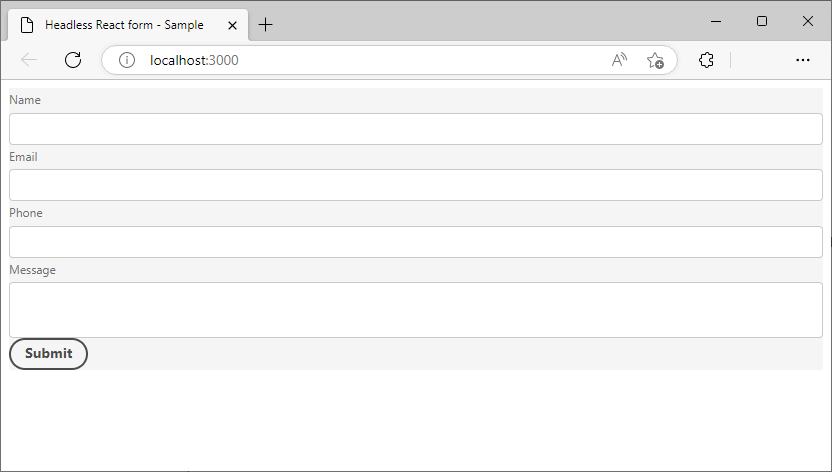
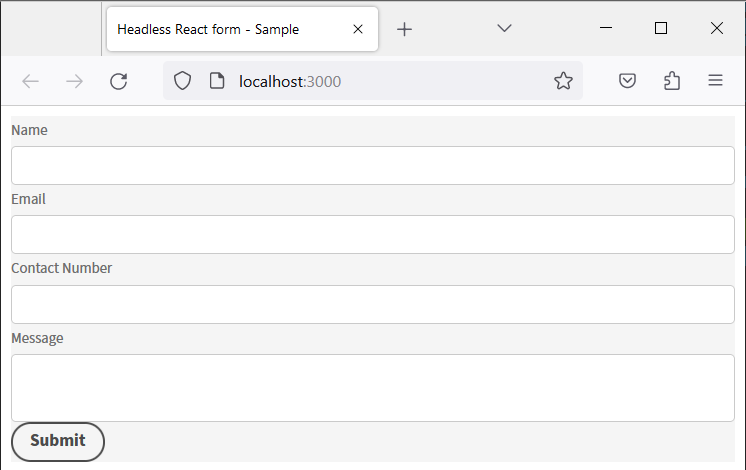
Updated Getting Started With Starter Kit (#82)

diff --git a/help/create-and-publish-a-headless-form.md b/help/create-and-publish-a-headless-form.md
@@ -1,6 +1,6 @@
 ---
 title: Create and Publish a Headless Form with Adobe Experience Manager Adaptive Forms | Step-by-Step Guide
-description: Learn how to create and publish a headless form using Adobe Experience Manager's adaptive forms in this step-by-step guide. Discover the benefits of going headless and streamline your form creation process today. Start building dynamic, responsive forms that work seamlessly across devices with Adobe Experience Manager Headless Adaptive Forms
+description: Learn how to create and publish a headless form using Adobe Experience Manager's adaptive forms in this step-by-step guide. Discover the benefits of going headless and streamline your form creation process today. Start building dynamic, responsive forms that work seamlessly across devices with Adobe Experience Manager Headless Adaptive Forms.
 hide: no
 exl-id: cd7c7972-376c-489f-a684-f479d92c37e7
 ---
@@ -80,7 +80,6 @@ The starter kit is a React app with a sample Headless adaptive form and correspo
     ![](/help/assets/install-react-app-starter-kit.png)
 
 
-
 ## 2. Preview the Headless adaptive form {#preview}
 
 After setting up the starter kit, you can preview the sample Headless adaptive form, replace it with your own custom form. You can also configure the starter kit to retrieve a form from an AEM Forms Server. To preview the form
@@ -112,9 +111,9 @@ After setting up the starter kit, you can preview the sample Headless adaptive f
 
 ## 3. Create and render your own Headless adaptive form{#custom}
 
-A Headless adaptive form represents the form and its components, such as fields and buttons, in JSON (JavaScript Object Notation) format. The advantage of using JSON format is that it can be easily parsed and used by various programming languages, making it a convenient way to exchange form data between systems. 
+A Headless adaptive form represents the form and its components, such as fields and buttons, in JSON (JavaScript Object Notation) format. The advantage of using JSON format is that it can be easily parsed and used by various programming languages, making it a convenient way to exchange form data between systems. To view the sample Headless adaptive form included with the app, open the `/react-starter-kit-aem-headless-forms/form-definations/form-model.json` file. 
 
-Let's create a contact us form that four fields: "Name", "Email", "Phone No", and "Message". The fields are defined as objects (items) within the JSON, with each object (item) having properties such as type, label, name, and required. The form also has a button with of type "submit". Here is JSON for the form. 
+Let's create a contact us form with four fields: "Name", "Email", "Contact Number", and "Message". The fields are defined as objects (items) within the JSON, with each object (item) having properties such as type, label, name, and required. The form also has a button of type "submit". Here is JSON for the form. 
 
 
 ```JSON
@@ -142,7 +141,7 @@ Let's create a contact us form that four fields: "Name", "Email", "Phone No", an
         "format": "phone",
         "pattern": "[0-9]{10}",
         "label": {
-          "value": "Phone"
+          "value": "Contact Number"
         },
         "name": "Phone"
       },
@@ -165,8 +164,8 @@ Let's create a contact us form that four fields: "Name", "Email", "Phone No", an
       }
     ],
     "action": "https://eozrmb1rwsmofct.m.pipedream.net",
-    "description": "Sample form",
-    "title": "Sample Form",
+    "description": "Contact Us",
+    "title": "Contact Us",
     "metadata": {
       "grammar": "json-formula-1.0.0",
       "version": "1.0.0"
@@ -179,7 +178,8 @@ Let's create a contact us form that four fields: "Name", "Email", "Phone No", an
 >[!NOTE]
 >
 > * The "afModelDefinition" attribute is only needed for React applications and is not a part of the form definition.
-> * This article focuses on hand-crafted JSON definition. You can also use the [adaptive forms editor to create a core components based adaptive form](create-a-headless-adaptive-form.md) and use it to render a headless adaptive form. 
+> * You can hand-craft the form JSON or use the [AEM adaptive forms editor (adaptive forms WYSIWYG editor)](create-a-headless-adaptive-form.md) to create and deliver the form JSON. In a production environment, you use AEM Forms to deliver the form JSON, more on it later.
+> * The tutorial uses the https://pipedream.com/ to test form submissions. You use your own or third-party endpoints approved by your organization to recieve the data from a Headless Adaptive Form.   
 
 
 To render the form, replace the sample Headless adaptive form JSON `/react-starter-kit-aem-headless-forms/form-definations/form-model.json` with the above JSON, save the file, wait for the starter-kit to compile and refresh the form.    
@@ -188,9 +188,22 @@ To render the form, replace the sample Headless adaptive form JSON `/react-start
 
 <!-- Your form is ready. Let's add some validations and make "Name", "Email", and "Message" fields mandatory. -->
 
+You have sucessfully rendered the Headless Adaptive Form. 
+
+
+## Bonus
+
+Let's set the title of the webpage hosting the form to `Contact Us | WKND Adventures and Travel`. To change the title, open the _react-starter-kit-aem-headless-forms/public/index.html_ file for editing and set the title.  
+
+![](assets/contact-us-headless-adaptive-forms-updated-title.png)
+
  
 ## Next step
 
-You have successfully created the Headless Adaptive Form. By default, the starter kit uses [Adobe's Spectrum](https://spectrum.adobe.com/) components. The next step is to [use a custom react library to render a headless form](use-google-material-ui-react-components-to-render-a-headless-form.md)
+By default, the starter kit uses [Adobe's Spectrum](https://spectrum.adobe.com/) components to render the form. You can use create and use your own components or third-party components. For example, using Google Material UI or Chakra UI.
+
+Let's [use Google Material UI](use-google-material-ui-react-components-to-render-a-headless-form.md) to render our Contact Us form.
+
+
 
     

diff --git a/help/architecture.md b/help/architecture.md
@@ -14,11 +14,7 @@ A Headless adaptive form is essentially a JSON structure (schema) consisting for
 
 ## Architecture {#architecture}
 
-A typical Headless adaptive forms architecture constitutes the following:
-
-* An Adobe Experience Manager Forms Server.
-* Headless adaptive forms hosted on Adobe Experience Manager Forms Server.
-* Your frontend apps (Website, mobile application, JavaScript apps, chat applications, and more) for channel-specific form renditions.
+A typical Headless adaptive forms architecture constitutes an Adobe Experience Manager Forms Server, Headless adaptive forms hosted on Adobe Experience Manager Forms Server, and your frontend apps (Website, mobile application, JavaScript apps, chat applications, and more) for channel-specific form renditions.
 
 Typical architecture of a Headless adaptive forms deployment looks like the following:
 
@@ -37,7 +33,7 @@ A typical Headless adaptive forms architecture constitutes an Adobe Experience M
 **Adobe Experience Manager Server**: Along with serving as host for Headless adaptive forms, Adobe Experience Manager provides the following backend capabilities:  
 
 * RESTful APIs to list, fetch, pre-fill, validate, submit, track submission status of headless forms.
-* Visual editor to easily develop Headless adaptive forms.
+* Visual editor to easily develop a Headless adaptive form.
 * Forms Data Model to receive or send data to disparate data sources.
 * Workflow engine to automate complex tasks.
 
@@ -58,7 +54,7 @@ The following tools help you create and integrate Headless adaptive forms to you
 **Forms Web SDK (Client-Side Runtime)**: Forms Web SDK is a client-side JavaScript library. It allows you to apply client-side validations on form fields, maintain state of the form, and provides hooks to connect form with UI layer or adaptive forms rendered component. It allows customers to validate constrains applied to various fields of a form and hooks to connect JSON structure of form to the UI framework. The Forms Web SDK has the following components:
 
 * **Business rule processor**: The business rule processor accepts the forms JSON structure as input, manages the state of the form fields, executes rules, and event handlers present in the JSON.
-* **React binder**: Provides hooks over controller so you can add state to Form Components. It is also helpful in pre-filling a form.
+* **React binder**: Provides hooks over controller to add state to Form Components. It is also helpful in pre-filling a form.
 * **Components library**: It provides React Spectrum Components and uses hooks in React Binder module to add state to those components.
 
 Along with providing the APIs to validate constraints applied to various fields of a form, Forms Web SDK provides hooks to connect Headless adaptive forms to the UI framework. It also provides React Renderer for Headless adaptive forms to help integrate a Headless adaptive form to your application. The following components of Web SDK are available:
@@ -81,6 +77,6 @@ Core-Components: It enables use to render an Adaptive Form using JSON structure.
 
 **Adaptive Forms version 2.0 specifications**: Adaptive Forms version 2.0 specification provides a detailed information on all the components, constraints, and methods available to define Headless adaptive forms. The specification is available in [PDF](/help/assets/Headless-Adaptive-Form-Specification.pdf) format.
 
-**HTTP and JavaScript APIs**: [HTTP APIs](https://opensource.adobe.com/aem-forms-af-runtime/api/) allow you to list, fetch, validate, submit, track submission status of headless forms. [JS APIs](https://github.com/adobe/aem-forms-af-runtime) helps you use Headless adaptive forms with any JavaScript based UI framework. 
+**HTTP and JavaScript APIs**: [HTTP APIs](https://opensource.adobe.com/aem-forms-af-runtime/api/) allow you to list, fetch, validate, submit, track submission status of headless forms. [JS APIs](https://opensource.adobe.com/aem-forms-af-runtime/jsdocs/) helps you use Headless adaptive forms with any JavaScript based UI framework. 
 
 **JSON Formula**: It is an implementation of forms expression grammar to helps you query JSON structure and create rules for Headless adaptive forms. The grammar is a mashup of spreadsheet-like functions and operators and [JMESPath](https://jmespath.org/) a JSON query language. You can use the [playground](https://opensource.adobe.com/json-formula/dist/index.html) to explore JSON formula syntax and capabilities.

diff --git a/help/use-google-material-ui-react-components-to-render-a-headless-form.md b/help/use-google-material-ui-react-components-to-render-a-headless-form.md
@@ -7,13 +7,13 @@ exl-id: 476509d5-f4c1-4d1c-b124-4c278f67b1ef
 
 # Use a custom react library to render a headless form
 
-You have the option to create and implement custom components to customize the appearance and functionality of your Headless adaptive form as per requirement and guidelines of your organization. 
+You can create and implement custom components to customize the appearance and functionality (Behaviour) of your Headless adaptive forms as per requirement and guidelines of your organization. 
 
 These components serve two primary purposes: to control the appearance or style of form fields, and to store the data collected through these fields within the form model instance. If this sounds confusing, don't worry - we will explore these purposes in greater detail shortly. For now, let's focus on the initial steps of creating custom components, rendering the form using these components, and utilizing events to save and submit data to a REST endpoint.
 
 In this tutorial, Google Material UI components are employed to demonstrate how to render a Headless adaptive form using custom React components. However, you are not limited to this library and are free to utilize any React components library or develop your own custom components.
 
-By the conclusion of this article, the form created in [Create and publish a headless form using starter kit](create-and-publish-a-headless-form.md) article transforms into the following:
+By the conclusion of this article, the _Contact Us_ form created in [Create and publish a headless form using starter kit](create-and-publish-a-headless-form.md) article transforms into the following:
 
 ![](assets/headless-adaptive-form-with-google-material-ui-components.png)
 
@@ -26,7 +26,11 @@ The major steps involved in using Google Material UI components to render a form
 
 By default, the starter kit uses [Adobe's Spectrum](https://spectrum.adobe.com/) components. Let's set it to use [Google's Material UI](https://mui.com/):
 
-Open command prompt, navigate to the **react-starter-kit-aem-headless-forms** and run the following command:
+1.  Ensure that the starter kit is not running. To stop the starter kit, open your terminal, navigate to the **react-starter-kit-aem-headless-forms**, and press Ctrl-C (it's the same on Windows, Mac & Linux). 
+
+    Do not attempt to close the terminal. Closing your terminal does not stop the starter kit.
+
+1. Run the following command:
 
 ```shell
     

diff --git a/help/use-events-to-handle-and-submit-form-data.md b/help/use-events-to-handle-and-submit-form-data.md
@@ -6,9 +6,13 @@ hide: no
 
 # Use events to handle and submit form headless adaptive forms data {#using-events}
 
-Until now, you learn to [create a custom Headless Adaptive Form](create-and-publish-a-headless-form.md) and [style the form using custom React components](use-google-material-ui-react-components-to-render-a-headless-form.md). This article focuses on using events to retain and submit the user entered data to a data store. This article exhibits submitting data to a Rest endpoint. You can configure your form to submit the data to any data source
+Until now, you learn to [create a custom Headless Adaptive Form](create-and-publish-a-headless-form.md) and [style the form using custom React components](use-google-material-ui-react-components-to-render-a-headless-form.md). This article focuses on using events to retain and submit the user entered data to a data store. 
+
+This article exhibits submitting data to a Rest endpoint. You can configure your form to submit the data to any data source
 
 ## Understanding the data model
+
+
 
 ## Using events to communicate with the data model 
 
